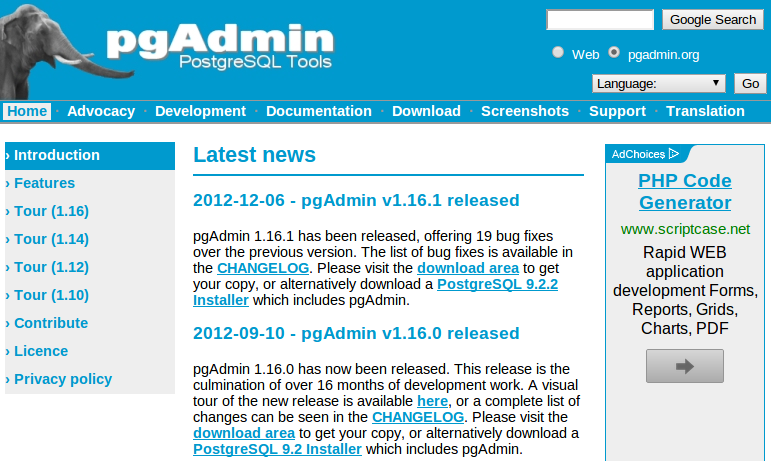
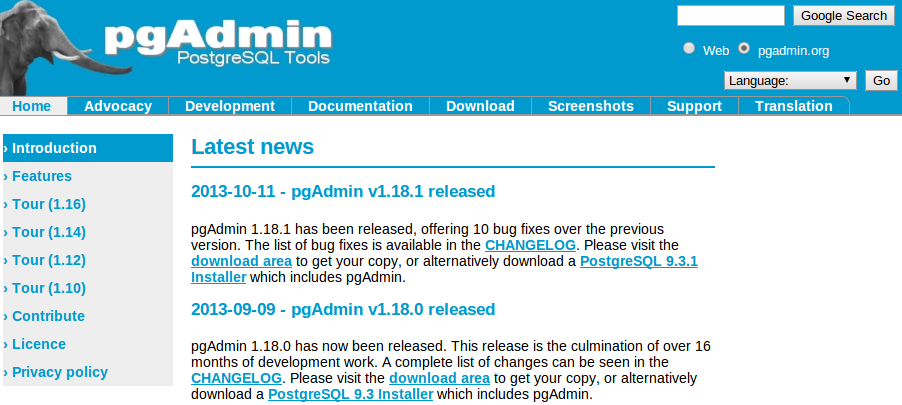
Update pgadmin_install section

diff --git a/1/pgadmin_install.html b/1/pgadmin_install.html
@@ -1,23 +1,23 @@
 <!DOCTYPE html>
 <html>
-<title>Установка pgAdmin</title>
+<title>Установка pgAdmin в Windows</title>
 
 <xmp theme="united" style="display:none;">
 
 ![][01-pgadmin-06]
 
-Если вас пугает консоль и нужен более интуитивный способ работать с базой данных, то можно использовать pgAdmin. pgAdmin - это свободное кроссплатформенное (работающее и в *nix, и в Windows) программное обеспечение предоставляющее графический интерфейс для работы с базой данных. 
+Если вас пугает консоль и нужен более интуитивный способ работать с базой данных, то можно использовать pgAdmin. pgAdmin - это свободное кроссплатформенное (работающее и в *nix, и в Windows) программное обеспечение, предоставляющее графический интерфейс для работы с базой данных. 
 
-Установка для Windows:
+**Установка для Windows:**
 
 1. Переходим на страницу загрузок [pgAdmin](http://www.pgadmin.org/download/windows.php)
    и скачиваем последнюю версию программы, в данном случае это будет
-   [pgAdmin v1.14.3](http://ftp.postgresql.org/pub/pgadmin3/release/v1.14.3/win32/pgadmin3-1.14.3.zip).
+   [pgAdmin v1.18.1](http://ftp.postgresql.org/pub/pgadmin3/release/v1.18.1/win32/pgadmin3-1.18.1.zip).
 
 2. Распаковываем архив и запускаем файл `pgadmin3.msi`.
 
 3. По окончанию установки запускаем программу:
-   *Пуск &#10139; Все программы &#10139; pgAdmin III 1.16 &#10139; pgAdmin III*.
+   *Пуск &#10139; Все программы &#10139; pgAdmin III 1.18 &#10139; pgAdmin III*.
 
 4. В открывшемся окне выбираем *Файл &#10139; Добавить сервер*. И указываем следующие
    параметры:
@@ -32,8 +32,6 @@
   ![][01-pgadmin-01]
 
 5. В окне *Браузер объектов* выберите базу данных `dbvega`.
-
-  ![][01-pgadmin-02]
 
 6. Нажмите кнопку ![](../img/01-pgadmin-03.png) на панели
 инструментов для запуска редактора SQL.
@@ -51,7 +49,6 @@
 
 
 [01-pgadmin-01]: ../img/01-pgadmin-01.png
-[01-pgadmin-02]: ../img/01-pgadmin-02.png
 [01-pgadmin-05]: ../img/01-pgadmin-05.png
 [01-pgadmin-06]: ../img/01-pgadmin-06.png
 

diff --git a/1/index.html b/1/index.html
@@ -14,7 +14,7 @@
 
 * [Установка PostgreSQL в Debian GNU/Linux 8.0](postgresql_install.html)
 * [Установка PostGIS в Debian GNU/Linux 8.0](postgis_install.html)
-* [Установка PgAdmin](pgadmin_install.html)
+* [Установка PgAdmin в Windows](pgadmin_install.html)
 * Основы работы с PostGIS
 
     * [Загрузка данных в PostGIS](postgis_data.html)
@@ -29,7 +29,7 @@
 ---------------
 
 * [PostGIS](http://postgis.net/)
-* [Документация PostGIS](http://postgis.net/docs/manual-1.5/)
+* [Документация PostGIS](http://postgis.net/documentation/)
 * [PostgreSQL](http://www.postgresql.org/)
 * [Документация PostgreSQL](http://www.postgresql.org/docs/)
 * [PgAdmin III](http://www.pgadmin.org/)
